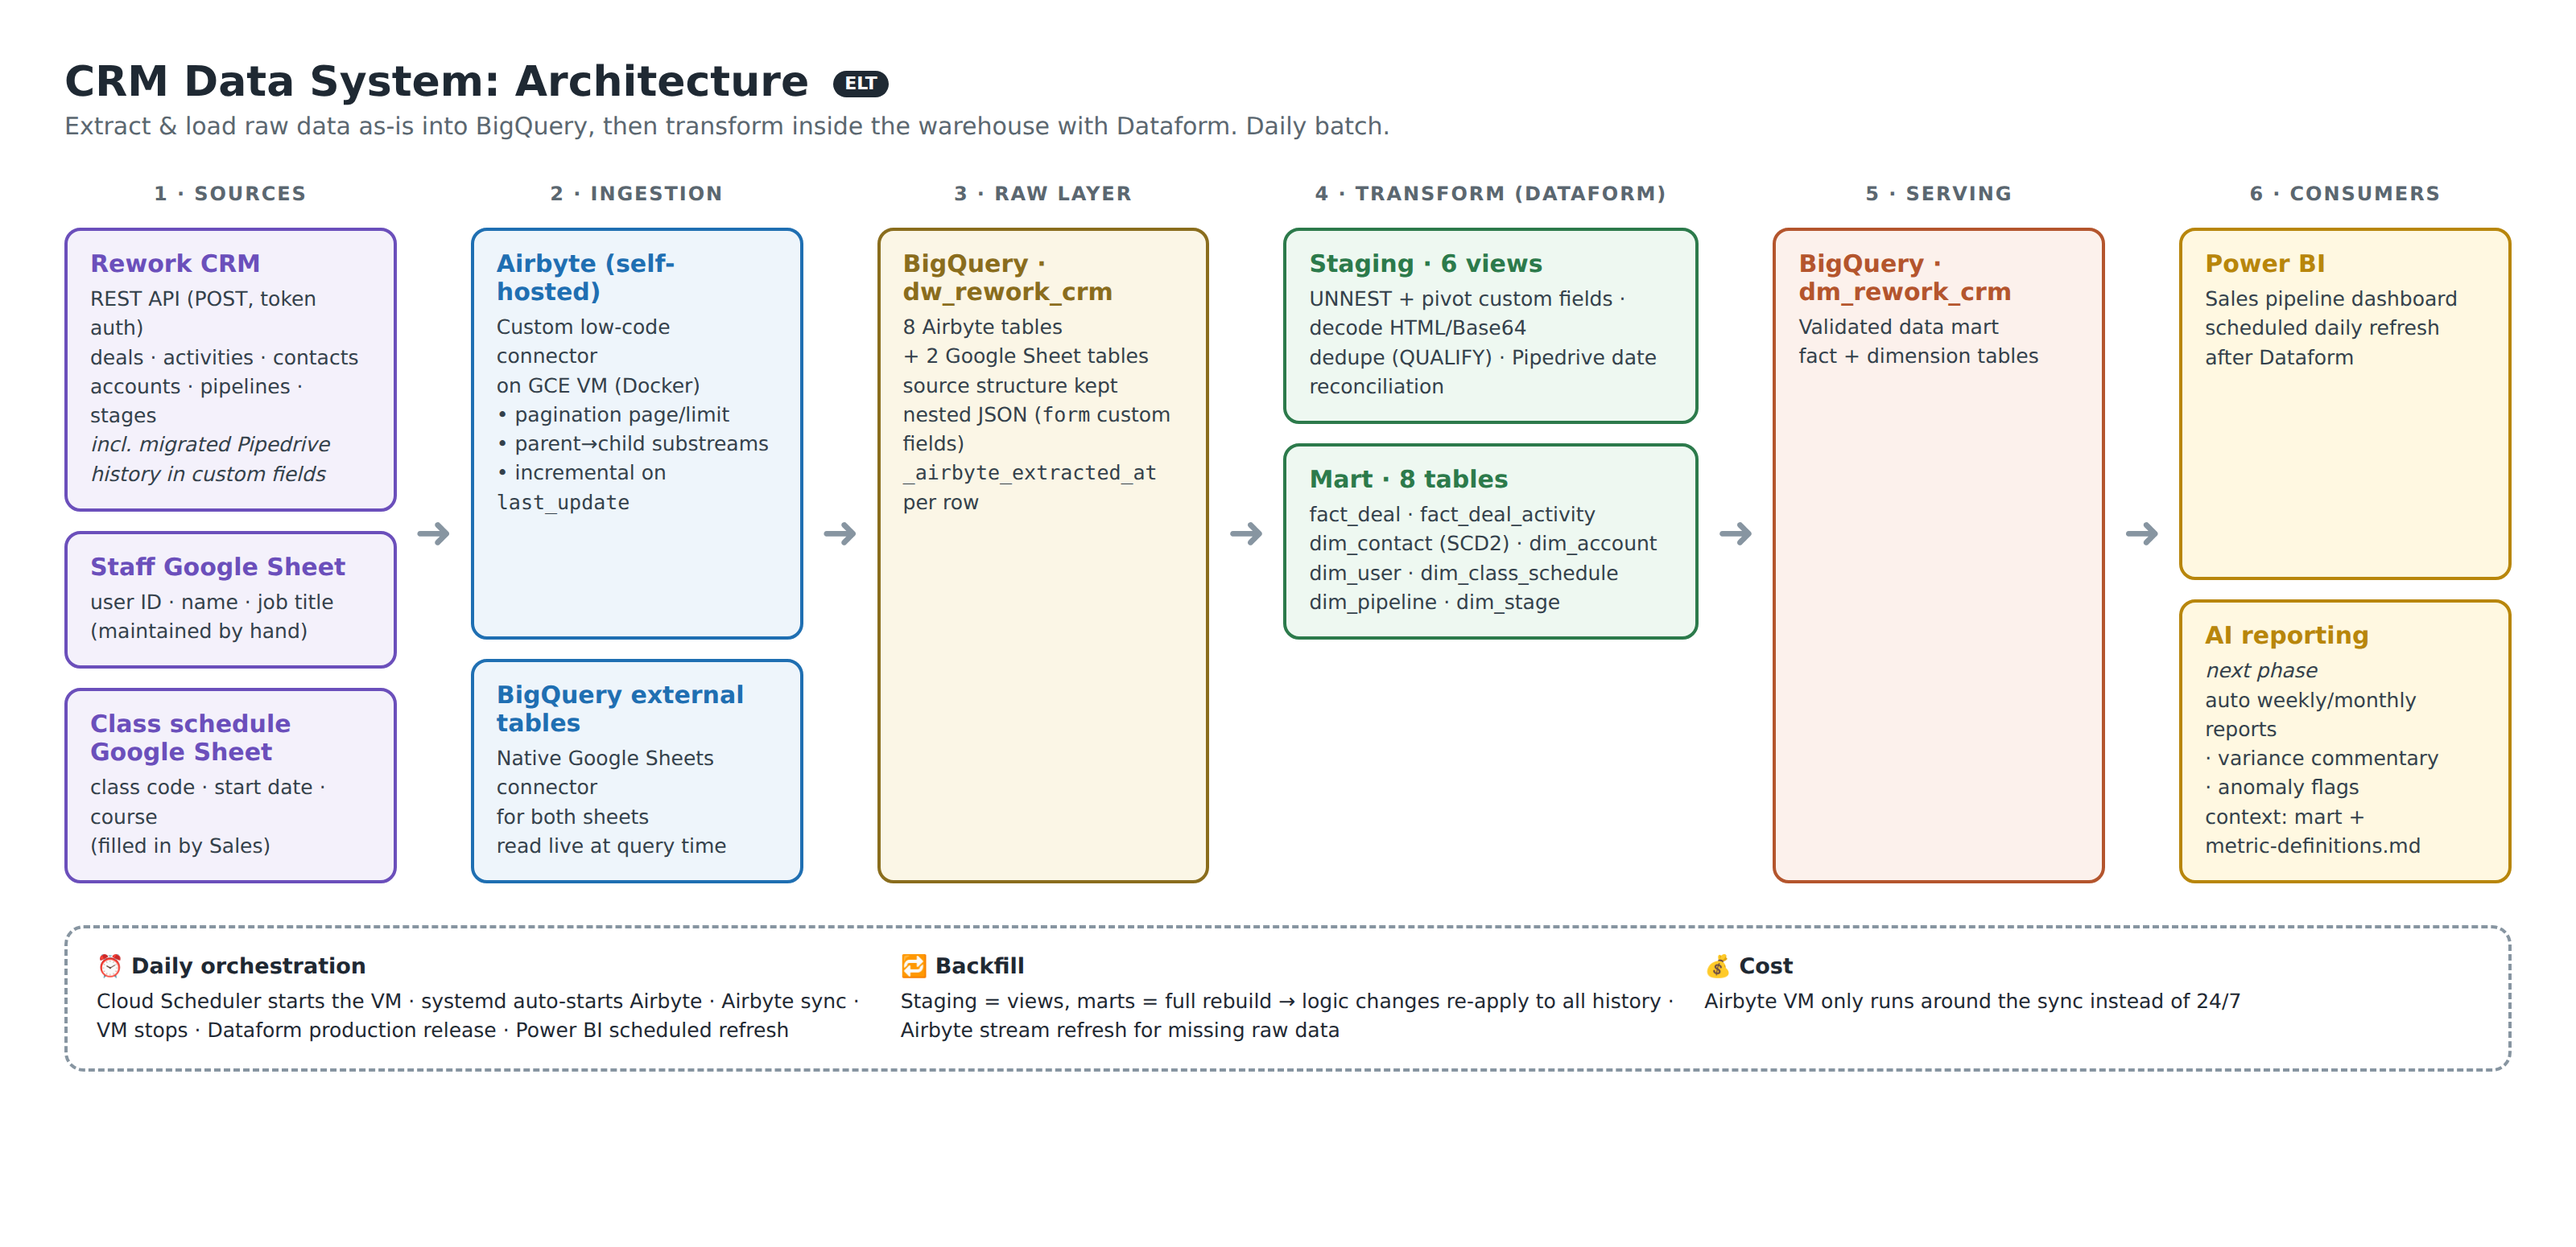
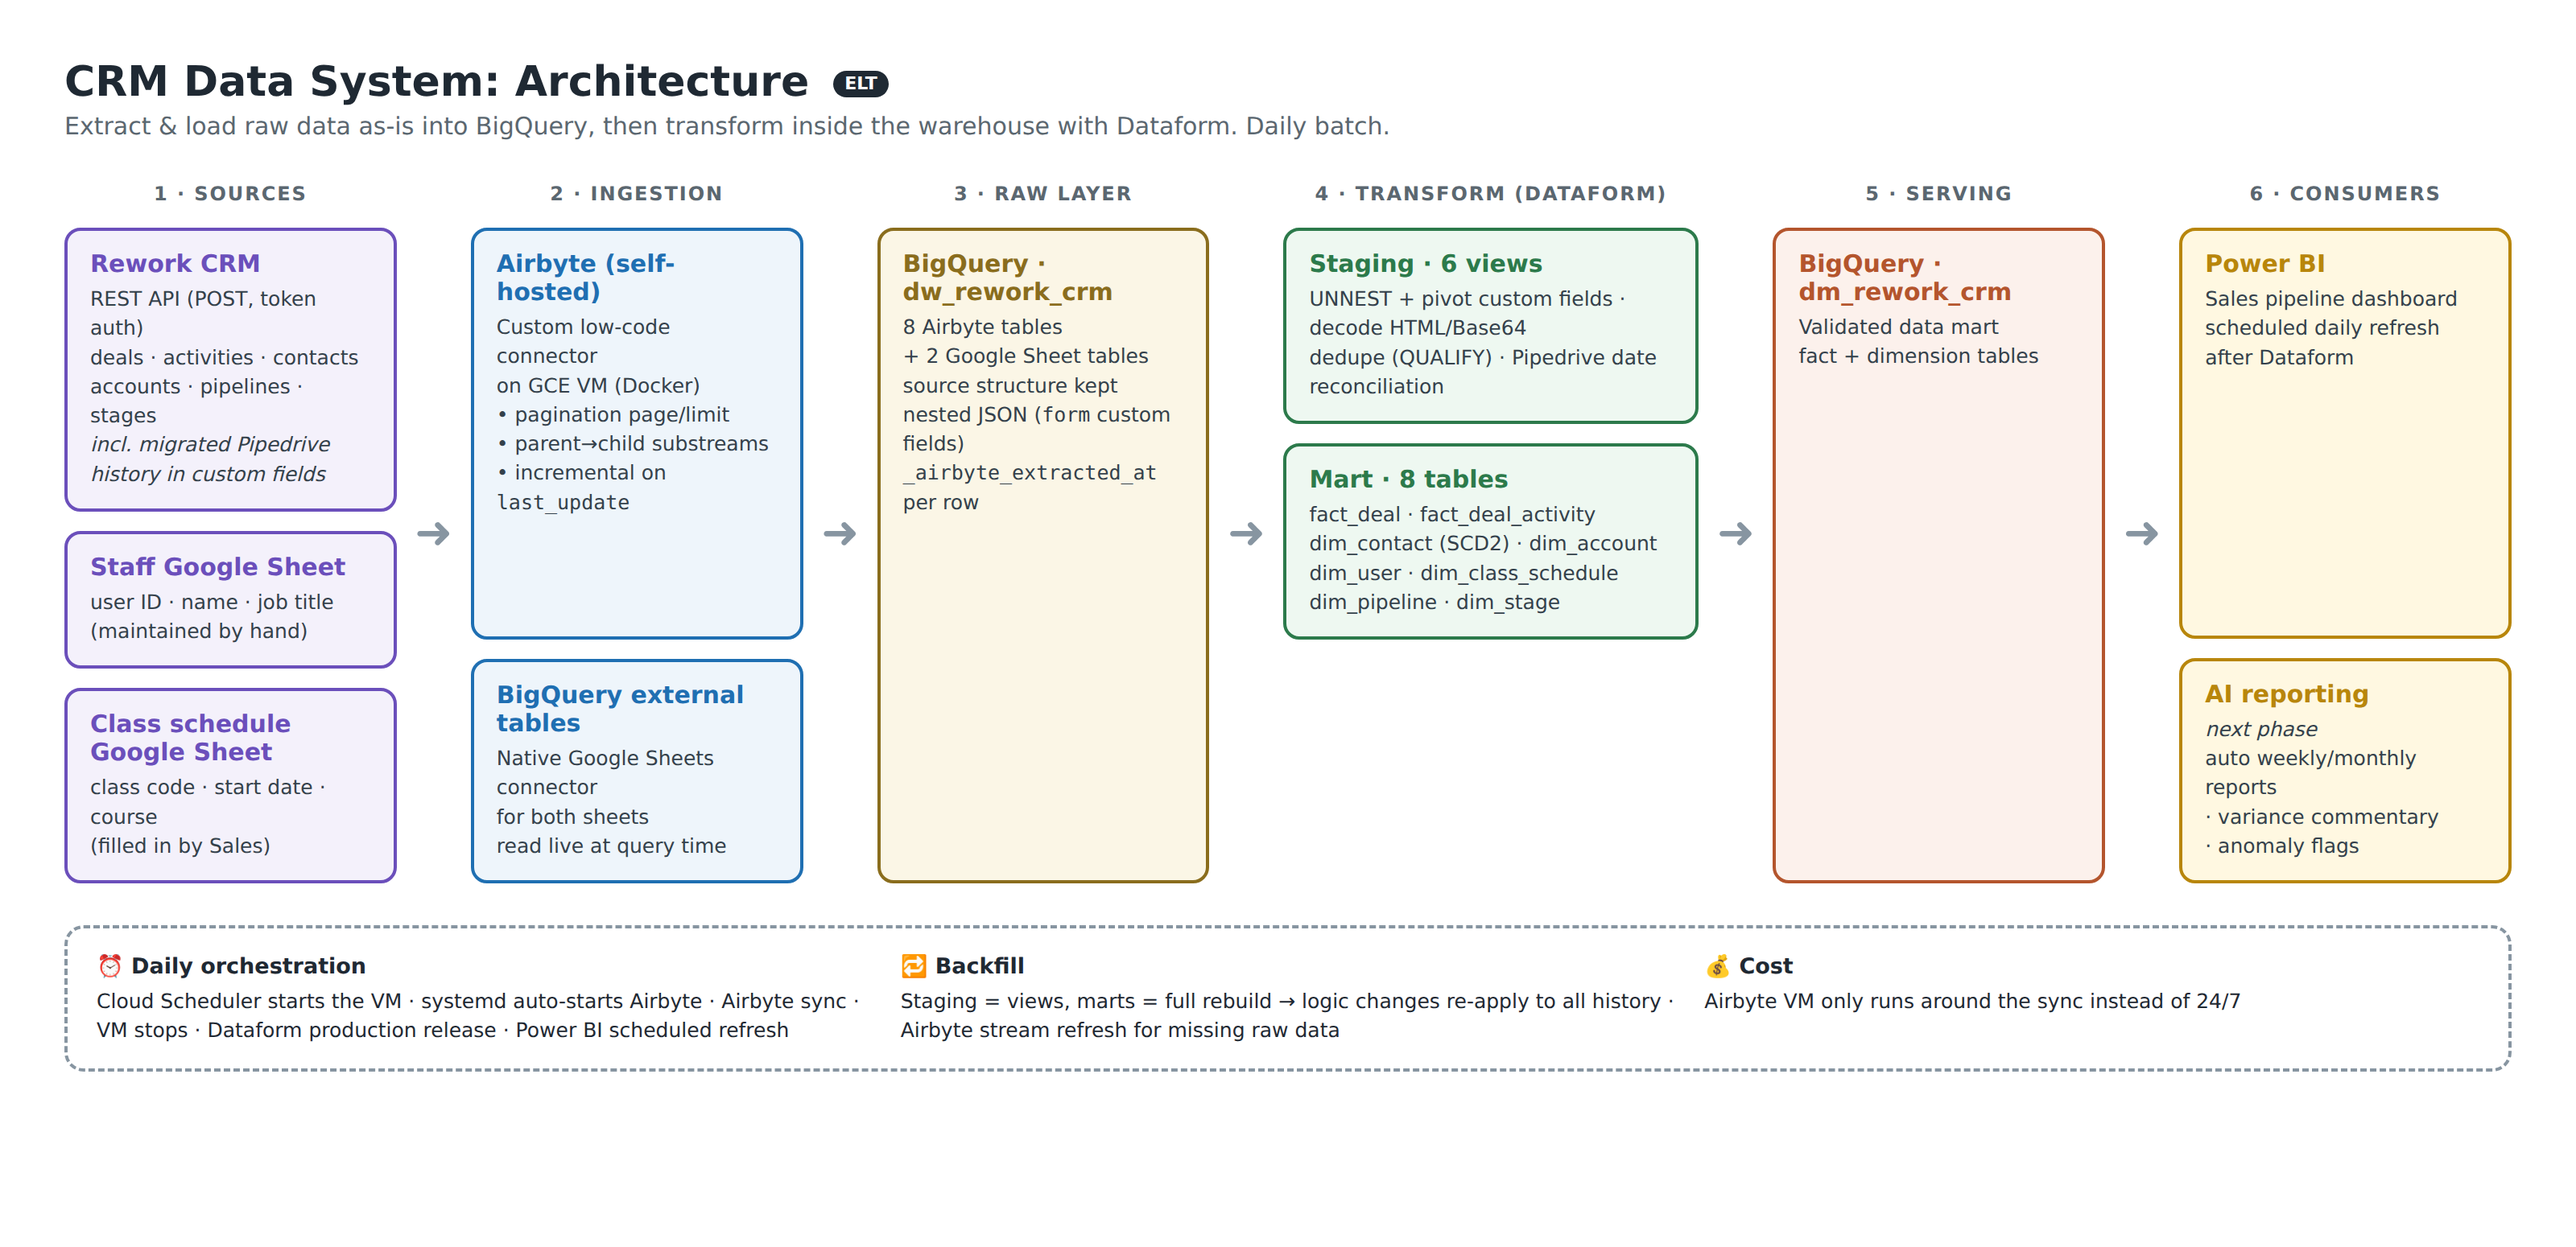
Drop context line from AI reporting box
Claude-Session: https://claude.ai/code/session_01RJTQ4eRzCiHnHntdpycA9C

Changed region(s): [[0.8438, 0.4645, 1.0, 0.6813]]

diff --git a/docs/architecture.html b/docs/architecture.html
@@ -47,7 +47,7 @@ h1{font-size:26px;margin-bottom:4px}
  <div class="arrow">➜</div>
  <div class="col"><div class="lane">6 · Consumers</div>
   <div class="box bi grow"><b>Power BI</b><span>Sales pipeline dashboard<br>scheduled daily refresh<br>after Dataform</span></div>
-  <div class="box bi"><b>AI reporting</b><span><i>next phase</i><br>auto weekly/monthly reports<br>· variance commentary<br>· anomaly flags<br>context: mart +<br>metric-definitions.md</span></div>
+  <div class="box bi"><b>AI reporting</b><span><i>next phase</i><br>auto weekly/monthly reports<br>· variance commentary<br>· anomaly flags</span></div>
  </div>
 </div>
 <div class="ops">
